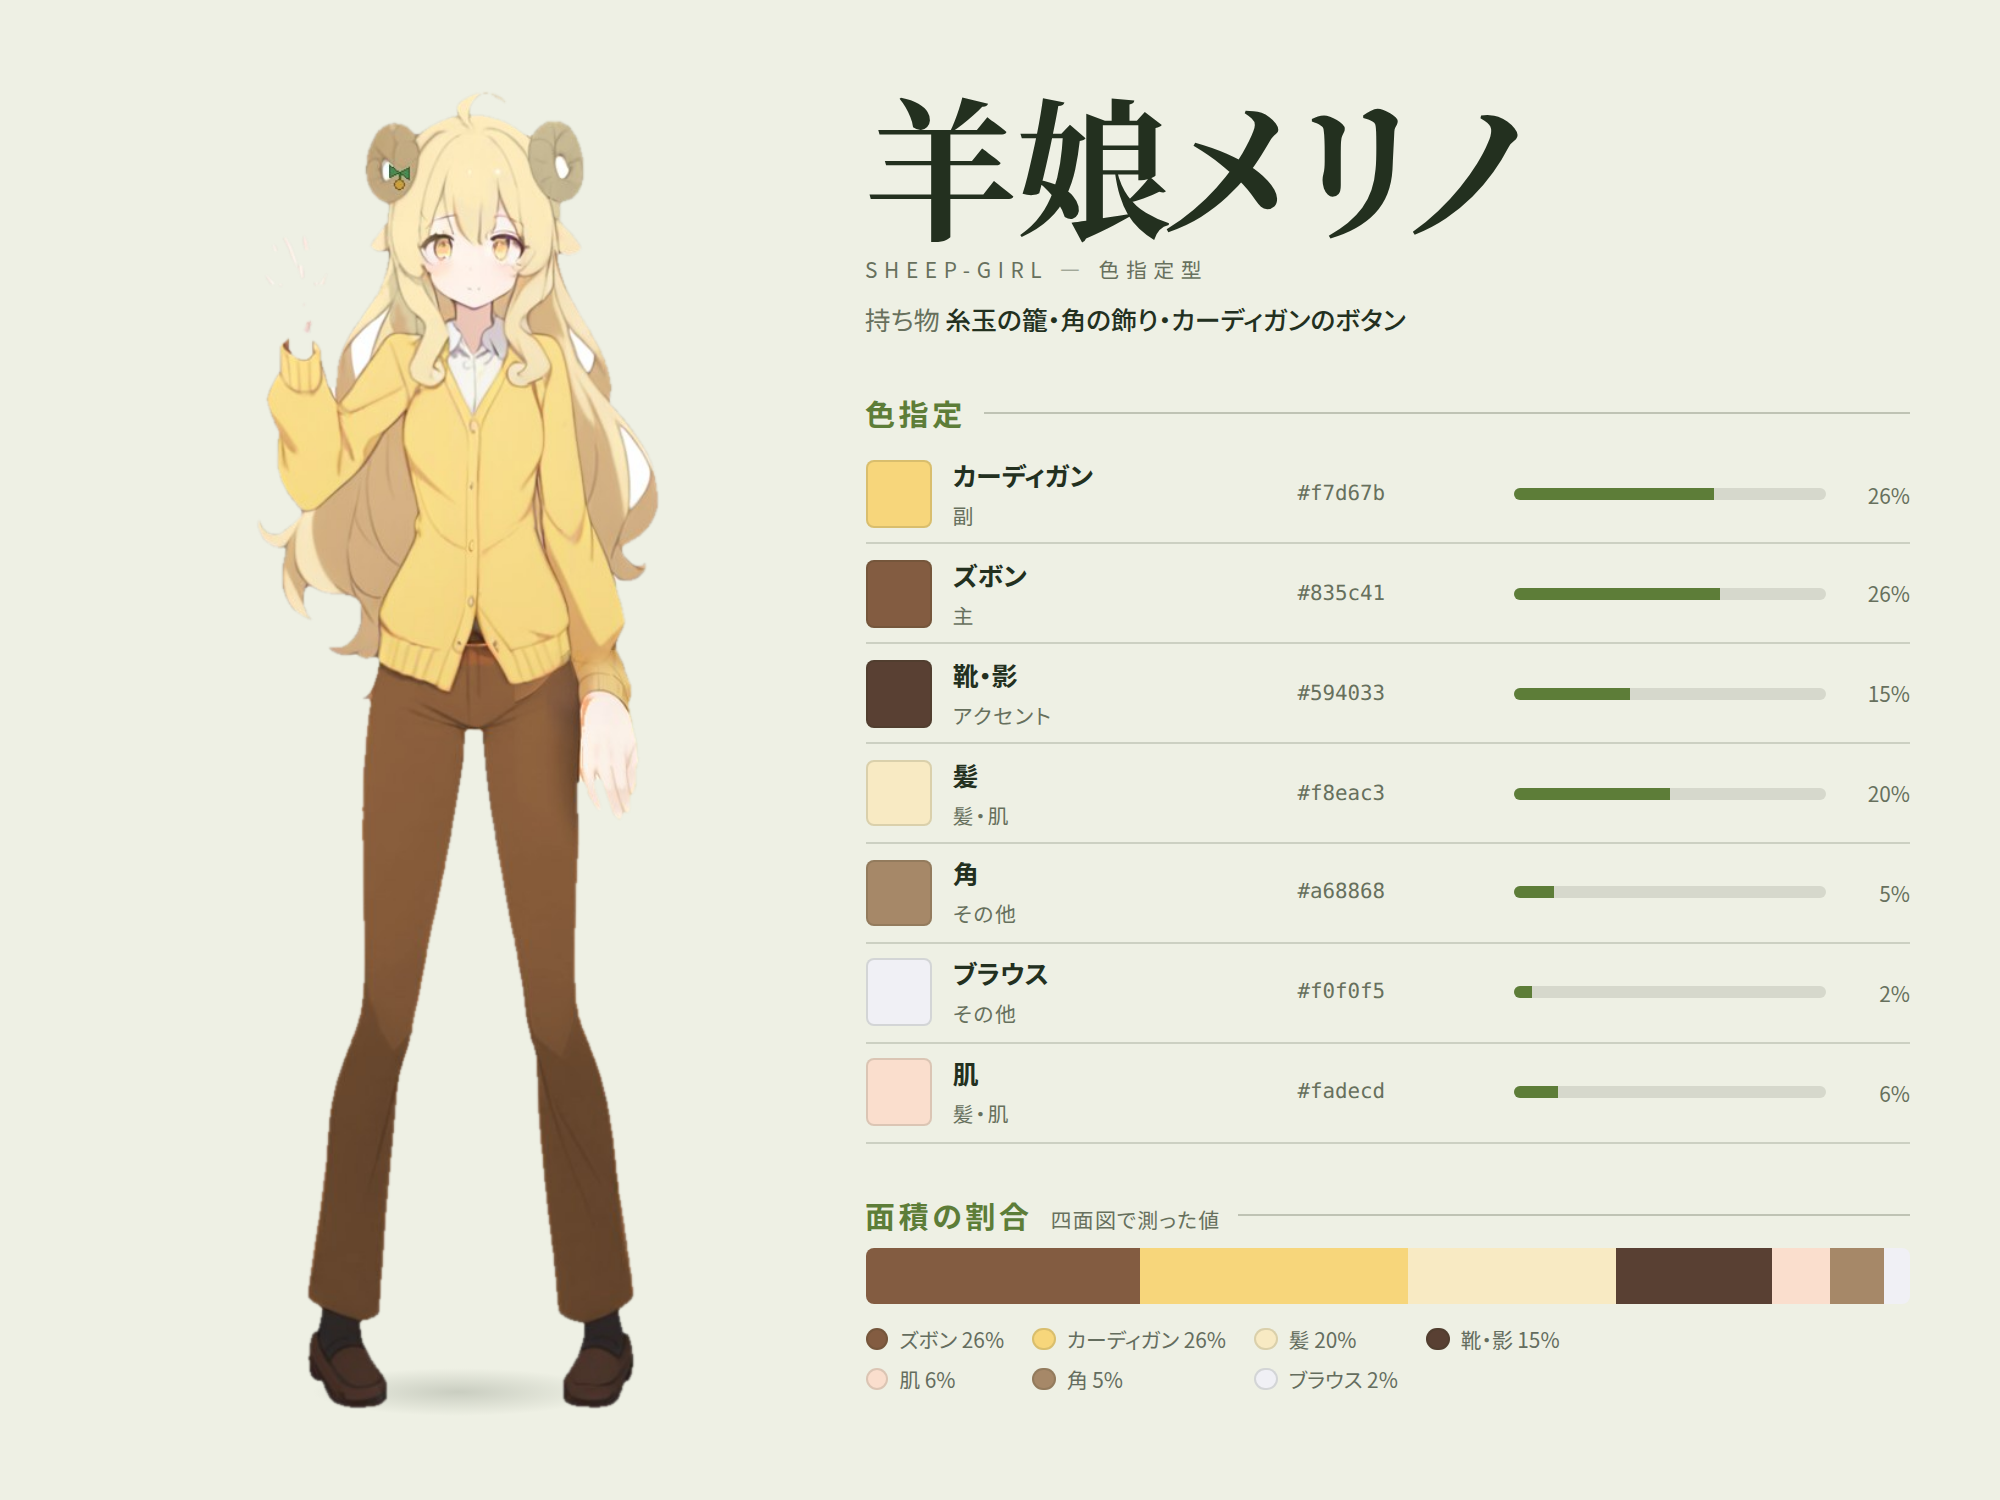
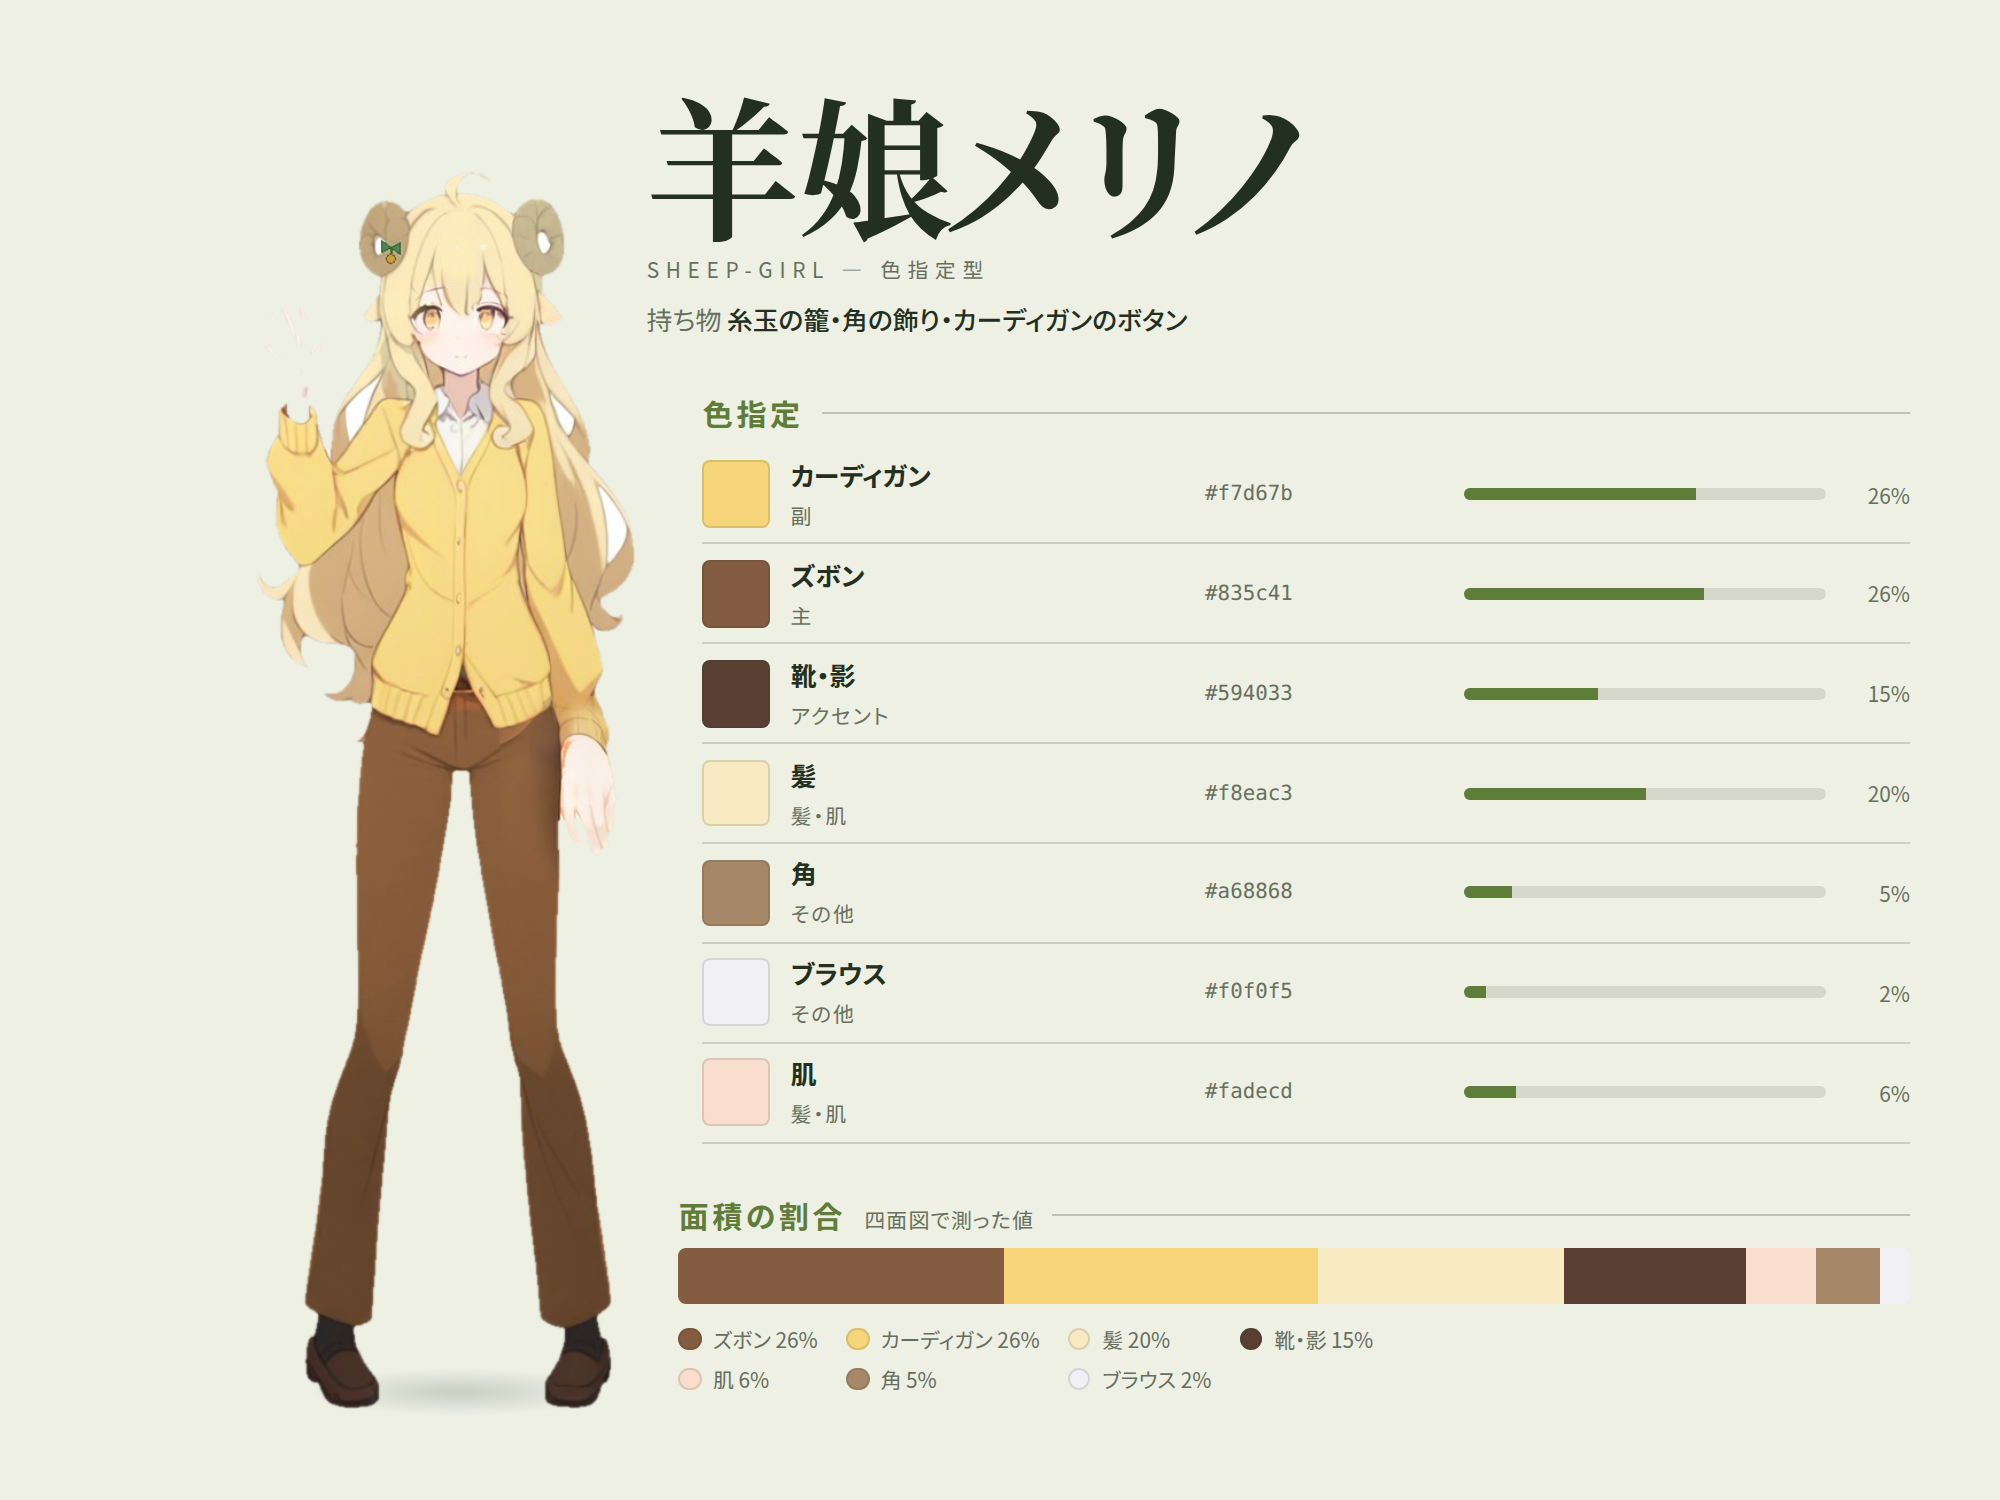
設定画集の主役の抜き方を SAM に替え、右の欄を主役の輪郭に沿ってずらす
部位分けだけでは人の縁がぎざぎざで、背後の機械を人と取り違えた。
服の部位分けの外形を枠に SAM で人を切り、腕に触れる小さな塊だけを持ち物として足す。
版はひな形として、主役のすぐ右の欄を輪郭から一定の間を空けた位置へ寄せたり押し出したりする。

Claude-Session: https://claude.ai/code/session_01SckJ2FC4PhB88prMhjDTEV

diff --git a/tools/gen/charsheet.py b/tools/gen/charsheet.py
@@ -489,6 +489,52 @@ def _char_accent(c: dict):
     return best
 
 
+_SAM = None
+
+
+def _person_mask(src, size):
+    """人の形の覆い。服の部位分けの外形を枠にして SAM で切り出す（2回目からは絵の隣の .sam.png を読む）。
+    部位分けだけでは、人の縁がぎざぎざになり、腕を背景の機械と取り違えた。SAM が背景の側を選んだときは反転する"""
+    import numpy as np
+    from pathlib import Path
+    from PIL import Image
+    import edit
+    out = Path(str(src) + ".sam.png")
+    if out.exists() and out.stat().st_mtime >= Path(src).stat().st_mtime:
+        return np.asarray(Image.open(out).resize(size, Image.NEAREST)) > 127
+    im = Image.open(src).convert("RGB")
+    seg = np.asarray(edit.parts(src).resize(im.size, Image.NEAREST)) > 0
+    ys, xs = np.nonzero(seg)
+    if not len(xs):
+        return seg
+    try:
+        import torch
+        from transformers import SamModel, SamProcessor
+        global _SAM
+        if _SAM is None:
+            _SAM = (SamModel.from_pretrained("facebook/sam-vit-base"), SamProcessor.from_pretrained("facebook/sam-vit-base"))
+        model, proc = _SAM
+        box = [[int(xs.min()), int(ys.min()), int(xs.max()), int(ys.max())]]
+        inp = proc(im, input_boxes=[box], return_tensors="pt")
+        with torch.no_grad():
+            o = model(**inp, multimask_output=True)
+        masks = proc.image_processor.post_process_masks(o.pred_masks, inp["original_sizes"], inp["reshaped_input_sizes"])[0][0].numpy()
+        # 部位分けと最も重なる面を選ぶ（点数の最大は、魔女で背景の側を選んだ）
+        best = None
+        for mk in masks:
+            border = np.concatenate([mk[0], mk[-1], mk[:, 0], mk[:, -1]]).mean()
+            if border > 0.5:
+                mk = ~mk
+            iou = (mk & seg).sum() / max(1, (mk | seg).sum())
+            if best is None or iou > best[0]:
+                best = (iou, mk)
+        mask = best[1] | seg
+    except Exception:
+        mask = seg
+    Image.fromarray((mask * 255).astype("uint8")).save(out)
+    return np.asarray(Image.fromarray((mask * 255).astype("uint8")).resize(size, Image.NEAREST)) > 127
+
+
 def _cutout(im, src=None):
     """背景を透かす覆いを作る。囲まれた所（白い服、目の光）は残す。覆い無しで貼ると、色の付いた地の上に四角が出た。
     縁の色（白に限らない）を背景とし、src があれば人の部位分けで、人に付いていない塊（機械、背景の模様）を外す。
@@ -504,11 +550,13 @@ def _cutout(im, src=None):
     edge = set(np.unique(np.concatenate([lab[0], lab[-1], lab[:, 0], lab[:, -1]]))) - {0}
     fg = ~np.isin(lab, list(edge))
     if src is not None:
-        import edit
-        seg = np.asarray(edit.parts(src).resize(im.size, Image.NEAREST))
-        person = ndimage.binary_closing(seg > 0, iterations=3)
+        person = _person_mask(src, im.size)
         if person.sum() > 500:
-            touch = ndimage.binary_dilation(person, iterations=4)
+            # 持ち物は手に触れている。腕の部位（14, 15）の近くに触れない塊は、人の後ろの物（機械）として外す
+            import edit
+            seg = np.asarray(edit.parts(src).resize(im.size, Image.NEAREST))
+            arms = np.isin(seg, [14, 15])
+            touch = ndimage.binary_dilation(arms if arms.any() else person, iterations=8)
             ys, xs = np.nonzero(person)
             pad = int((xs.max() - xs.min()) * 0.25)
             box = np.zeros_like(person)
@@ -523,6 +571,8 @@ def _cutout(im, src=None):
                 solid = area / comp.size
                 # 大きく詰まった塊（機械の車輪）は背景、細長い・まばらな塊（持ち物）は残す
                 if area > 0.05 * person.sum() and solid > 0.35:
+                    continue
+                if area > 0.10 * person.sum():   # 持ち物より大きい塊（人の後ろの機械）は背景
                     continue
                 # 人の横幅から大きく外れて広がる塊（背後の機械）は背景。持ち物は人の幅の近くに収まる
                 if (box[sl] & comp).sum() < 0.7 * area:

diff --git a/tools/gen/sheetlayout.py b/tools/gen/sheetlayout.py
@@ -225,6 +225,28 @@ JS = r"""
     // 拡大した主役は頭を区画の上にそろえ、はみ出した下（足）は版面の端で切る
     const w = img.naturalWidth * s, h = img.naturalHeight * s, x = L + (W - L - w) / 2, y = top ? H * 0.02 : H - h;
     Object.assign(img.style, {left: x + 'px', top: y + 'px', width: w + 'px', height: h + 'px'});
+    // 版はひな形で、欄の位置は人物に合わせてずらす。主役の右の輪郭から一定の間を空けて、右の欄の左端を決める。
+    // 細い人物なら欄を寄せて余白を詰め、腕や杖が広がる人物なら欄を押し出す
+    if (box.closest('[data-kind="hero"]') && box.dataset.prof) {
+      const prof = JSON.parse(box.dataset.prof), ib = img.getBoundingClientRect(), gap = W * 0.06;
+      const heroCell = box.closest('.cell');
+      for (const cell of document.querySelectorAll('.cell')) {
+        if (cell === heroCell) continue;
+        const cb = cell.getBoundingClientRect();
+        // 主役の区画のすぐ右の欄だけを動かす。離れた列まで動かすと、隣の列に重なった
+        const hb = heroCell.getBoundingClientRect();
+        if (cb.left < hb.right - 2 || cb.left - hb.right > W * 0.08) continue;
+        let right = -1;
+        for (let i = 0; i < prof.length; i++) {
+          const y0 = ib.top + ib.height * i / prof.length, y1 = ib.top + ib.height * (i + 1) / prof.length;
+          if (y1 < cb.top || y0 > cb.bottom || !prof[i]) continue;
+          right = Math.max(right, ib.left + ib.width * prof[i]);
+        }
+        if (right < 0) continue;
+        const dx = Math.max(-cb.width * 0.25, Math.min(cb.width * 0.45, right + gap - cb.left));
+        cell.style.marginLeft = (parseFloat(cell.style.marginLeft || 0) + dx) + 'px';
+      }
+    }
     // 主役は人物ごとに幅が違う（腕を上げる、外套が広がる）。隣の欄の文字にかぶるときは、かぶらなくなるまで縮め、
     // それでも足りなければ版面の端の側へ寄せる。区画の線で切ると腕や髪が直線で欠けるので、切らずに大きさで合わせる
     if (box.closest('[data-kind="hero"]')) {
@@ -317,7 +339,16 @@ def _panel_html(pn, ctx):
         # clip の辺は区画の線で切る。拡大した人物が隣の図の文字（高さの線の名前など）にかぶるのを防ぐ
         ins = " ".join("0" if sd in pn.get("clip", []) else "-100vw" for sd in ("top", "right", "bottom", "left"))
         clip = f' style="clip-path:inset({ins})"' if pn.get("clip") else ""
-        return f'<div class="fit" data-scale="{sc}" data-anchor="{anchor}"{shadow}{clip}>{wm}<img src="{_uri(im)}"></div>'
+        # 人物の右の輪郭（高さ2%ごとの右端の位置）。右の欄をこの輪郭に沿って寄せたり離したりする
+        import numpy as np
+        al = np.asarray(im.getchannel("A")) > 40
+        prof = []
+        for i in range(50):
+            band = al[int(i * al.shape[0] / 50):int((i + 1) * al.shape[0] / 50)]
+            cols = np.nonzero(band.any(axis=0))[0]
+            prof.append(round(float(cols.max() + 1) / al.shape[1], 3) if len(cols) else 0)
+        return (f'<div class="fit" data-scale="{sc}" data-anchor="{anchor}" data-prof="{json.dumps(prof)}"{shadow}{clip}>'
+                f'{wm}<img src="{_uri(im)}"></div>')
     if k == "lineart":
         p = c.get("images", {}).get("lineart")
         if not p or not (bible.ROOT / p).exists():
